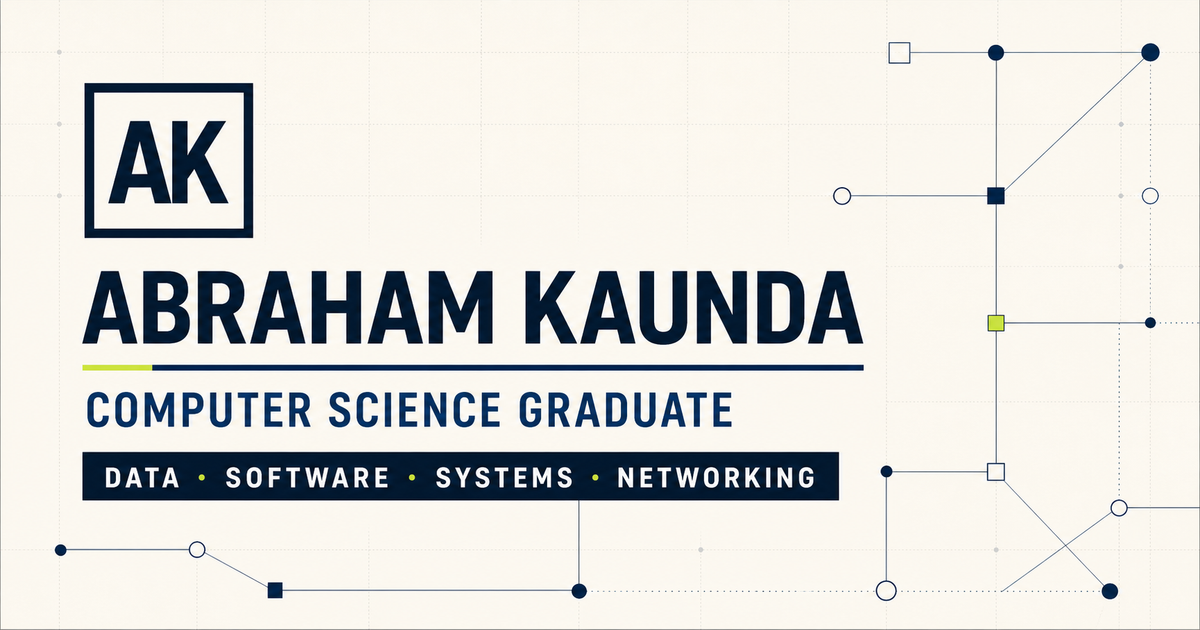
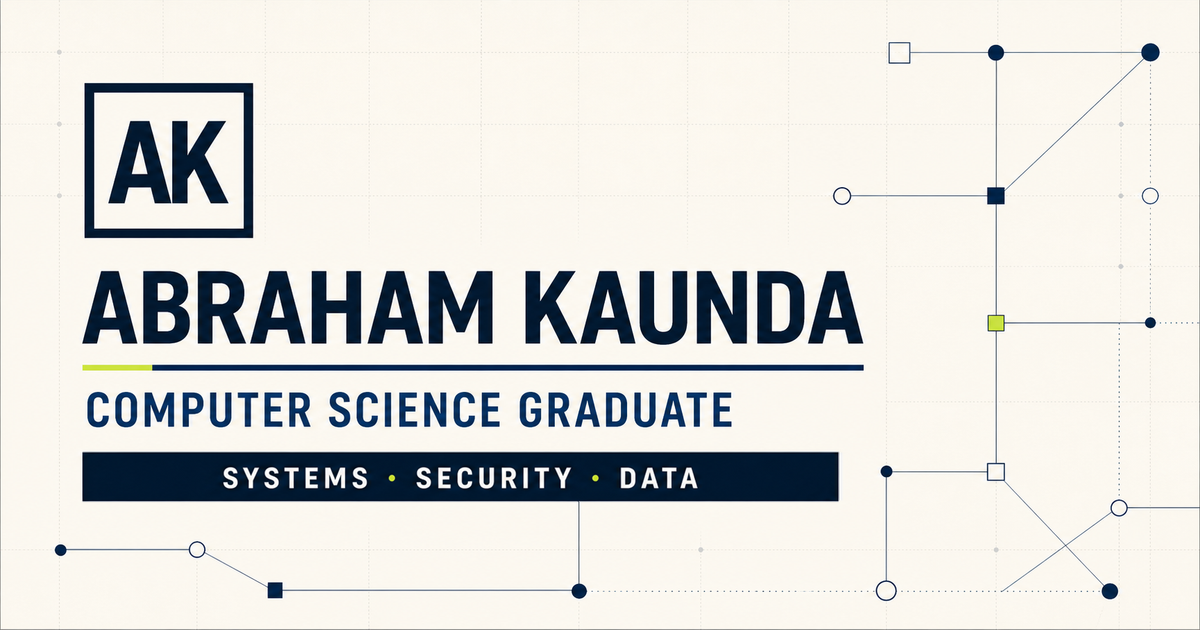
Align social preview and repository structure

Changed region(s): [[0.0925, 0.7238, 0.6783, 0.8143]]

diff --git a/index.html b/index.html
@@ -14,12 +14,12 @@
     <meta property="og:image" content="https://abrahamkaunda-create.github.io/assets/portfolio-social-preview.png">
     <meta property="og:image:width" content="1200">
     <meta property="og:image:height" content="630">
-    <meta property="og:image:alt" content="Abraham Kaunda, Computer Science graduate — data, software, systems and networking">
+    <meta property="og:image:alt" content="Abraham Kaunda, Computer Science graduate — systems, security and data">
     <meta name="twitter:card" content="summary_large_image">
     <meta name="twitter:title" content="Abraham Kaunda | Computer Science Graduate &amp; Builder">
-    <meta name="twitter:description" content="Practical data, software, systems and networking projects by Abraham Kaunda.">
+    <meta name="twitter:description" content="Practical systems, security and data projects by Abraham Kaunda.">
     <meta name="twitter:image" content="https://abrahamkaunda-create.github.io/assets/portfolio-social-preview.png">
-    <meta name="twitter:image:alt" content="Abraham Kaunda, Computer Science graduate — data, software, systems and networking">
+    <meta name="twitter:image:alt" content="Abraham Kaunda, Computer Science graduate — systems, security and data">
     <title>Abraham Kaunda | Computer Science Graduate &amp; Builder</title>
     <link rel="canonical" href="https://abrahamkaunda-create.github.io/">
     <link rel="icon" href="assets/favicon.svg" type="image/svg+xml">

diff --git a/pfsense-project.html b/pfsense-project.html
@@ -14,12 +14,12 @@
     <meta property="og:image" content="https://abrahamkaunda-create.github.io/assets/portfolio-social-preview.png">
     <meta property="og:image:width" content="1200">
     <meta property="og:image:height" content="630">
-    <meta property="og:image:alt" content="Abraham Kaunda, Computer Science graduate — data, software, systems and networking">
+    <meta property="og:image:alt" content="Abraham Kaunda, Computer Science graduate — systems, security and data">
     <meta name="twitter:card" content="summary_large_image">
     <meta name="twitter:title" content="pfSense Network Security Lab | Abraham Kaunda">
     <meta name="twitter:description" content="An evidence-led pfSense lab covering virtual networking, firewall policy, multi-WAN routing and WireGuard troubleshooting.">
     <meta name="twitter:image" content="https://abrahamkaunda-create.github.io/assets/portfolio-social-preview.png">
-    <meta name="twitter:image:alt" content="Abraham Kaunda, Computer Science graduate — data, software, systems and networking">
+    <meta name="twitter:image:alt" content="Abraham Kaunda, Computer Science graduate — systems, security and data">
     <title>pfSense Network Security Lab | Abraham Kaunda</title>
     <link rel="canonical" href="https://abrahamkaunda-create.github.io/pfsense-project.html">
     <link rel="icon" href="assets/favicon.svg" type="image/svg+xml">

diff --git a/windows-ad-lab.html b/windows-ad-lab.html
@@ -14,12 +14,12 @@
     <meta property="og:image" content="https://abrahamkaunda-create.github.io/assets/portfolio-social-preview.png">
     <meta property="og:image:width" content="1200">
     <meta property="og:image:height" content="630">
-    <meta property="og:image:alt" content="Abraham Kaunda, Computer Science graduate — data, software, systems and networking">
+    <meta property="og:image:alt" content="Abraham Kaunda, Computer Science graduate — systems, security and data">
     <meta name="twitter:card" content="summary_large_image">
     <meta name="twitter:title" content="Windows Active Directory Lab | Abraham Kaunda">
     <meta name="twitter:description" content="An evidence-led Windows IT support lab covering Active Directory, DNS, Group Policy, SMB permissions and PowerShell.">
     <meta name="twitter:image" content="https://abrahamkaunda-create.github.io/assets/portfolio-social-preview.png">
-    <meta name="twitter:image:alt" content="Abraham Kaunda, Computer Science graduate — data, software, systems and networking">
+    <meta name="twitter:image:alt" content="Abraham Kaunda, Computer Science graduate — systems, security and data">
     <title>Windows Active Directory Lab | Abraham Kaunda</title>
     <link rel="canonical" href="https://abrahamkaunda-create.github.io/windows-ad-lab.html">
     <link rel="icon" href="assets/favicon.svg" type="image/svg+xml">

diff --git a/incident-replay-lab.html b/incident-replay-lab.html
@@ -14,12 +14,12 @@
     <meta property="og:image" content="https://abrahamkaunda-create.github.io/assets/portfolio-social-preview.png">
     <meta property="og:image:width" content="1200">
     <meta property="og:image:height" content="630">
-    <meta property="og:image:alt" content="Abraham Kaunda, Computer Science graduate — data, software, systems and networking">
+    <meta property="og:image:alt" content="Abraham Kaunda, Computer Science graduate — systems, security and data">
     <meta name="twitter:card" content="summary_large_image">
     <meta name="twitter:title" content="Incident Replay Lab | Abraham Kaunda">
     <meta name="twitter:description" content="An interactive lab for replaying synthetic technical events and examining transparent incident-detection logic.">
     <meta name="twitter:image" content="https://abrahamkaunda-create.github.io/assets/portfolio-social-preview.png">
-    <meta name="twitter:image:alt" content="Abraham Kaunda, Computer Science graduate — data, software, systems and networking">
+    <meta name="twitter:image:alt" content="Abraham Kaunda, Computer Science graduate — systems, security and data">
     <title>Incident Replay Lab | Abraham Kaunda</title>
     <link rel="canonical" href="https://abrahamkaunda-create.github.io/incident-replay-lab.html">
     <link rel="icon" href="assets/favicon.svg" type="image/svg+xml">

diff --git a/README.md b/README.md
@@ -69,6 +69,10 @@ The portfolio has no frontend framework, package manager, database or server-sid
 ├── incident-replay-lab.html             # Incident Replay Lab case study
 ├── script.js                            # Theme, scroll reveal and image lightbox
 ├── styles.css                           # Design, animation and responsive layout
+├── studio-home.css                      # Homepage-specific layout and presentation
+├── studio-system.css                    # Shared design system, themes and responsive foundations
+├── studio-case.css                      # Case-study layouts and responsive tables
+├── studio-home.js                       # Homepage reveals with reduced-motion support
 └── README.md                            # Repository documentation
 ```
 
